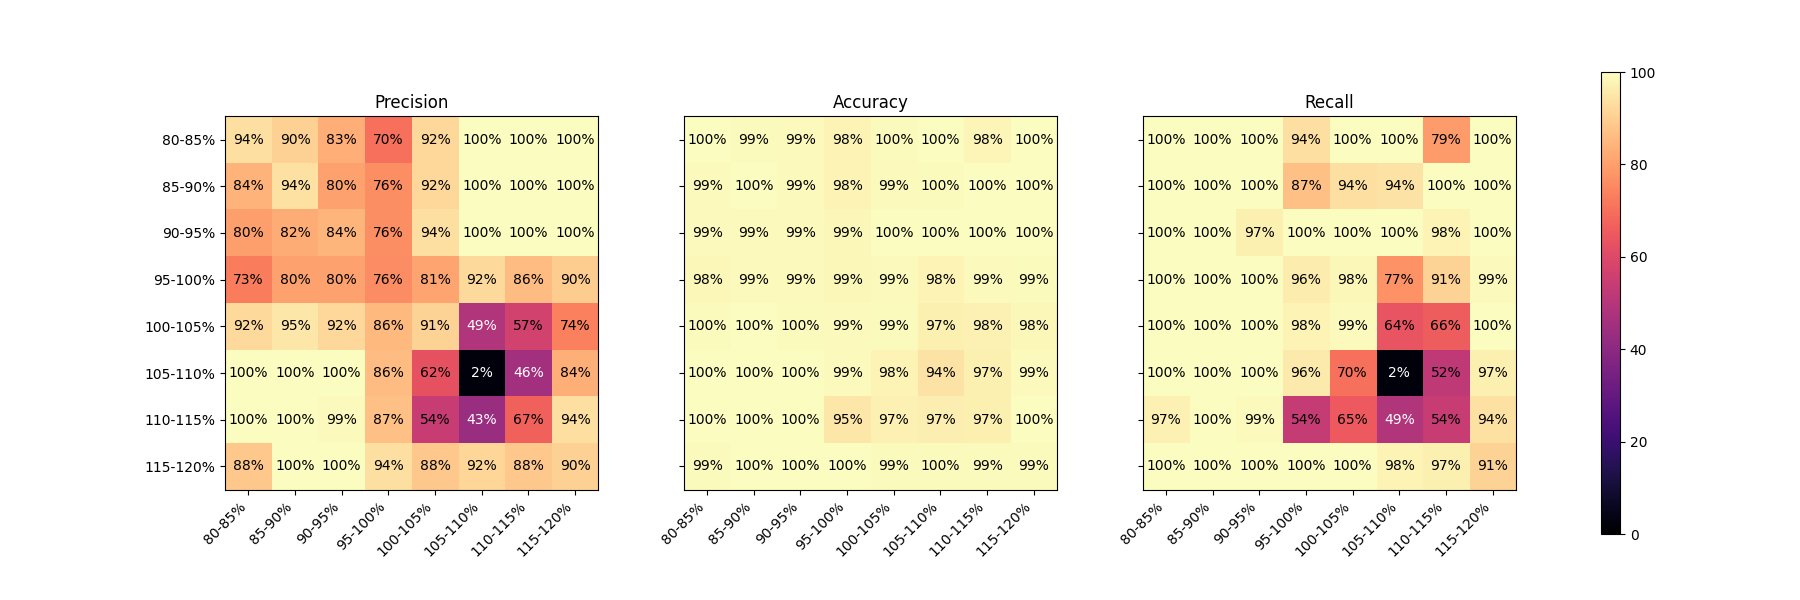
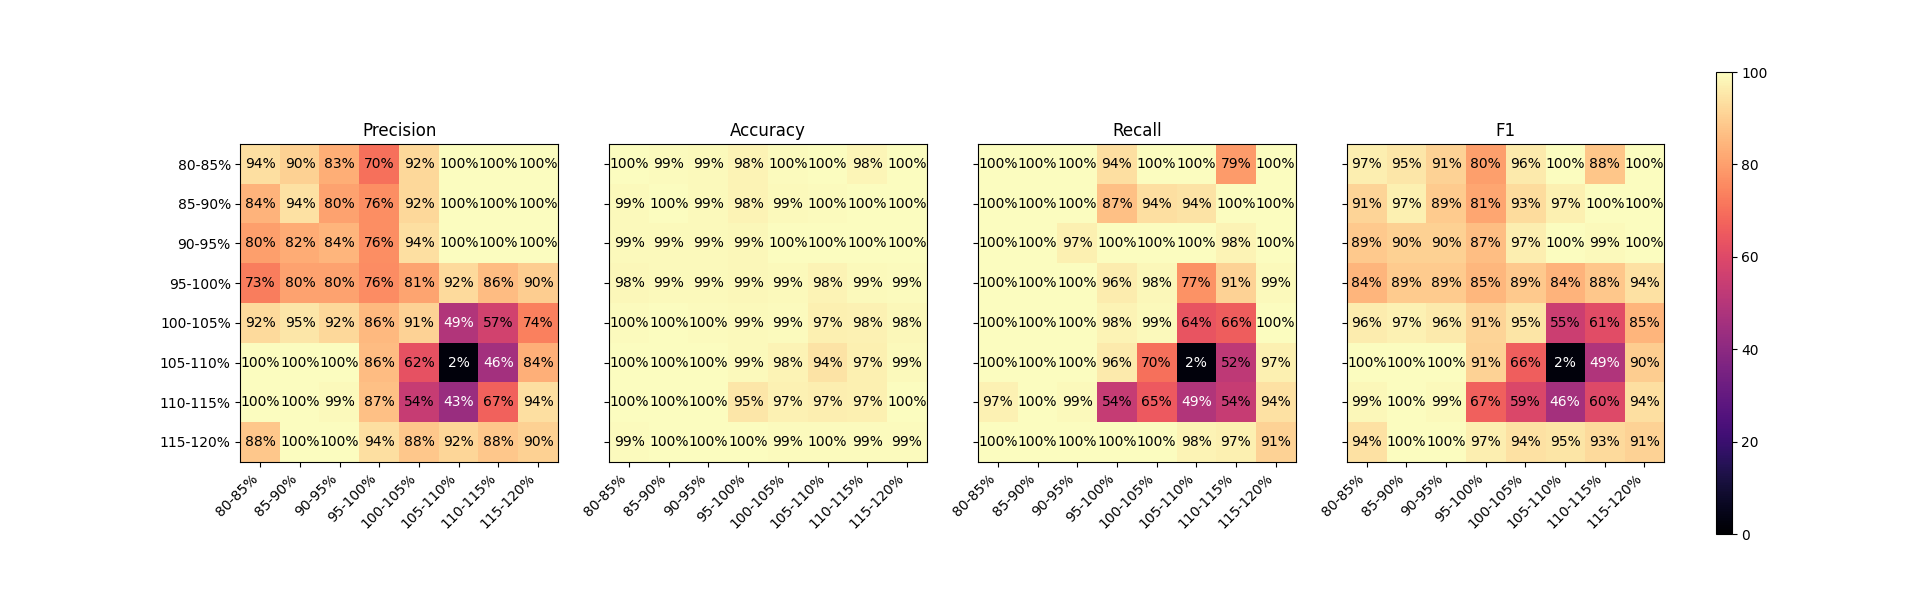
F1 score

diff --git a/state_estimator/simu_KPI_bandas_2a/reading_and_plotting_KPI_2.py b/state_estimator/simu_KPI_bandas_2a/reading_and_plotting_KPI_2.py
@@ -9,7 +9,7 @@ fp = '090neg'
 hour = '10'
 tipo = 'P'
 num_indices = 8 
-metrics = ['Precision', 'Accuracy', 'Recall']  # Métricas a representar
+metrics = ['Precision', 'Accuracy', 'Recall', 'F1']  # Métricas a representar
 num_subplots = len(metrics)
 
 data_matrices = [np.zeros((num_indices, num_indices)) for _ in range(num_subplots)]
@@ -22,8 +22,13 @@ for i in range(num_indices):
                 data = json.load(file)
                 for k, metric in enumerate(metrics):
                     try:
-                        value = data[fp][hour]['2.5'][tipo][metric] * 100
-                        data_matrices[k][i, j] = value
+                        if metric != 'F1':
+                            value = data[fp][hour]['2.5'][tipo][metric] 
+                        else:
+                            precision = data[fp][hour]['2.5'][tipo]['Precision']
+                            recall = data[fp][hour]['2.5'][tipo]['Recall']
+                            value = 2*precision*recall/(precision + recall)
+                        data_matrices[k][i, j] = value*100
                     except KeyError:
                         data_matrices[k][i, j] = np.nan  
         else:
@@ -31,11 +36,11 @@ for i in range(num_indices):
                 data_matrices[k][i, j] = np.nan
 
 # Crear figura y rejilla con espacio para la barra de color
-fig = plt.figure(figsize=(18, 6))
-gs = GridSpec(1, 4, width_ratios=[1, 1, 1, 0.05], wspace=0.3)  # 3 subplots + espacio para colorbar
+fig = plt.figure(figsize=(24, 6))
+gs = GridSpec(1, 5, width_ratios=[1, 1, 1, 1, 0.05], wspace=0.2)  # 4 subplots + espacio para colorbar
 
-axes = [fig.add_subplot(gs[0]), fig.add_subplot(gs[1]), fig.add_subplot(gs[2])]
-cax = fig.add_subplot(gs[3])  
+axes = [fig.add_subplot(gs[0]), fig.add_subplot(gs[1]), fig.add_subplot(gs[2]), fig.add_subplot(gs[3])]
+cax = fig.add_subplot(gs[4])  
 
 cmap = plt.cm.magma  
 norm = plt.Normalize(vmin=0, vmax=100)
